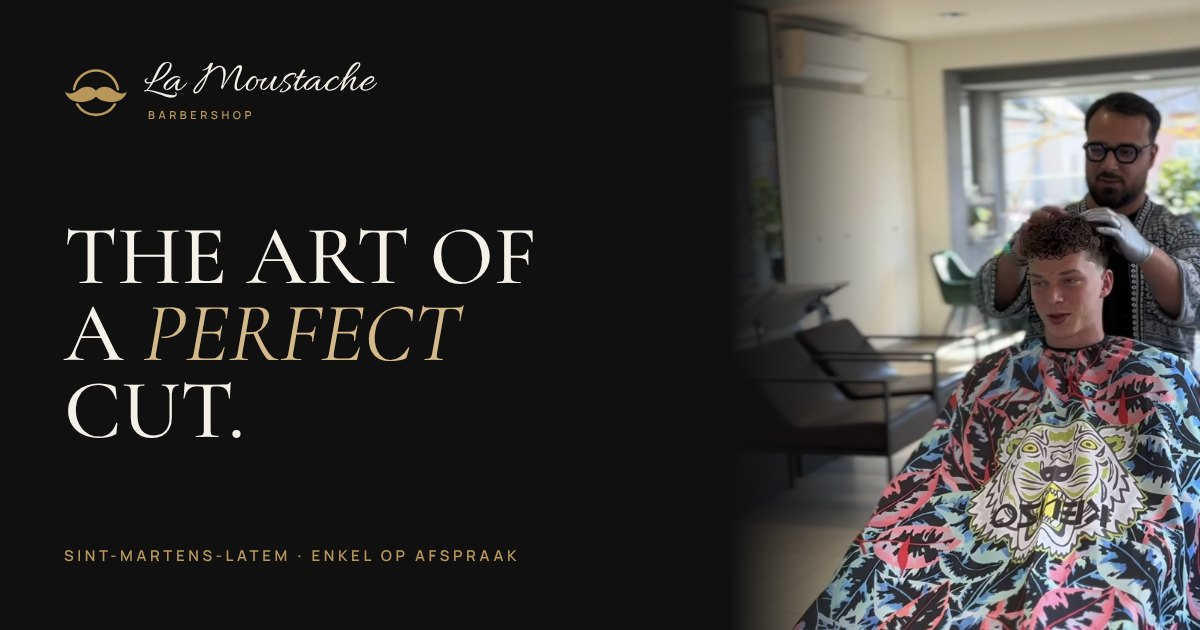
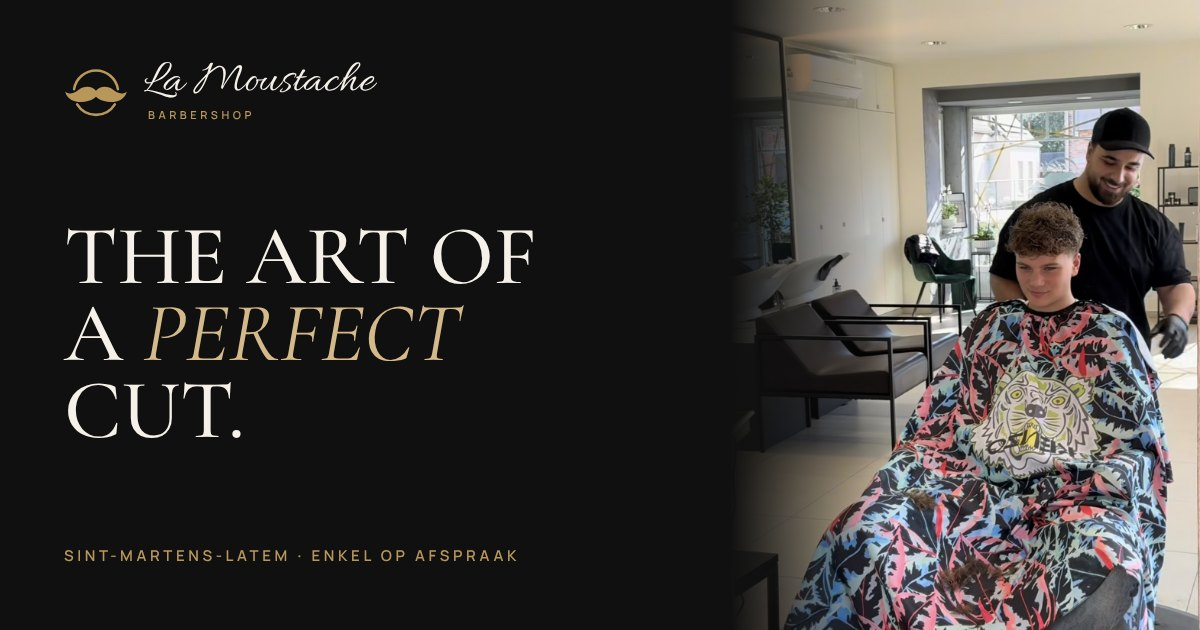
feat(la-moustache): new hero photo
- Hero and social share image now use the bright interior shot
- Experience section shows the neon wall photo
- Gallery gains a (mirror-corrected) shot of the barber styling a
  client; the old soft hero photo is removed
- README: photo consent confirmed by the client

Claude-Session: https://claude.ai/code/session_01PDqNCw2tHsDknUvRJEffo3

Changed region(s): [[0.6167, 0.0, 1.0, 1.0]]

diff --git a/projects/la-moustache/src/config/photos.ts b/projects/la-moustache/src/config/photos.ts
@@ -1,12 +1,12 @@
 import type { StaticImageData } from "next/image";
 
 import azizPortrait from "@/assets/photos/aziz-portrait.jpg";
-import azizStyling from "@/assets/photos/aziz-styling.jpg";
 import capCut from "@/assets/photos/cap-cut.jpg";
 import curlsResult from "@/assets/photos/curls-result.jpg";
 import interior from "@/assets/photos/interior.jpg";
 import neon from "@/assets/photos/neon.jpg";
 import spray from "@/assets/photos/spray.jpg";
+import stmntAziz from "@/assets/photos/stmnt-aziz.jpg";
 import stmntCape from "@/assets/photos/stmnt-cape.jpg";
 
 /**
@@ -21,11 +21,6 @@ export type Photo = {
 };
 
 export const photos = {
-  azizStyling: {
-    src: azizStyling,
-    alt: "Aziz Güler brengt de krullen van een klant in vorm in de lichte zaak van La Moustache",
-    caption: "Krullen in vorm brengen",
-  },
   azizPortrait: {
     src: azizPortrait,
     alt: "Aziz Güler lacht aan zijn bureau in La Moustache, met een gouden astronautbeeldje en een sfeerlamp",
@@ -33,13 +28,18 @@ export const photos = {
   },
   interior: {
     src: interior,
-    alt: "De lichte zaak van La Moustache met wasstoelen, een groene fauteuil en een groot raam, terwijl een barber een klant knipt",
+    alt: "De lichte zaak van La Moustache: een barber werkt aan de krullen van een klant, met wasstoelen en een groot raam op de achtergrond",
     caption: "De zaak in Sint-Martens-Latem",
   },
   neon: {
     src: neon,
     alt: "Barber en klant poseren voor de groene plantenmuur met het neonlogo van La Moustache",
     caption: "De neonmuur van La Moustache",
+  },
+  stmntAziz: {
+    src: stmntAziz,
+    alt: "Lachende barber met bril en handschoenen stylet het haar van een klant",
+    caption: "Styling met een glimlach",
   },
   stmntCape: {
     src: stmntCape,
@@ -64,4 +64,10 @@ export const photos = {
 } satisfies Record<string, Photo>;
 
 /** Volgorde in de galerij. */
-export const gallery: Photo[] = [photos.neon, photos.stmntCape, photos.spray, photos.curlsResult, photos.capCut];
+export const gallery: Photo[] = [
+  photos.stmntAziz,
+  photos.spray,
+  photos.curlsResult,
+  photos.stmntCape,
+  photos.capCut,
+];

diff --git a/projects/la-moustache/src/components/Hero.tsx b/projects/la-moustache/src/components/Hero.tsx
@@ -27,15 +27,15 @@ export function Hero() {
       {/* Beeld: volledig scherm op mobiel, redactioneel paneel rechts op desktop */}
       <div className="intro-settle absolute inset-0 -z-10 lg:left-auto lg:w-[46%]">
         <Image
-          src={photos.azizStyling.src}
-          alt={photos.azizStyling.alt}
+          src={photos.interior.src}
+          alt={photos.interior.alt}
           preload
           fetchPriority="high"
           fill
           placeholder="blur"
           quality={85}
           sizes="(min-width: 1024px) 46vw, 100vw"
-          className="object-cover object-[60%_30%]"
+          className="object-cover object-[68%_40%]"
         />
         {/* Leesbaarheid */}
         <div className="absolute inset-0 bg-gradient-to-t from-ink via-ink/75 to-ink/35 lg:hidden" />

diff --git a/projects/la-moustache/src/components/Experience.tsx b/projects/la-moustache/src/components/Experience.tsx
@@ -50,12 +50,12 @@ export function Experience() {
 
         <ImageReveal className="relative aspect-[5/4] w-full overflow-hidden lg:col-span-5 lg:col-start-1 lg:row-start-1 lg:aspect-[4/5]">
           <Image
-            src={photos.interior.src}
-            alt={photos.interior.alt}
+            src={photos.neon.src}
+            alt={photos.neon.alt}
             fill
             placeholder="blur"
             sizes="(min-width: 1024px) 40vw, 100vw"
-            className="object-cover object-[50%_25%]"
+            className="object-cover object-[35%_50%]"
           />
         </ImageReveal>
 

diff --git a/projects/la-moustache/README.md b/projects/la-moustache/README.md
@@ -117,15 +117,15 @@ Facebook live. Daarom staan er nog geen reviews, prijzen of beoordelingsaantalle
 ## Gebruikte afbeeldingen en toestemming
 
 Alle foto's komen van de eigen Instagram- en Facebookaccounts van La Moustache, aangeleverd als screenshots.
-Er zijn geen stockfoto's gebruikt en er is niets aan gezichten, kapsels of resultaten veranderd. Alleen
-bijgesneden, zodat de interface van Instagram en Facebook wegvalt.
+Er zijn geen stockfoto's gebruikt en er is niets aan gezichten, kapsels of resultaten veranderd. De foto's zijn
+alleen bijgesneden, zodat de interface van Instagram en Facebook wegvalt. Twee spiegelopnames zijn teruggespiegeld.
 
 | Bestand | Inhoud | Herkenbare klant? |
 | --- | --- | --- |
-| `aziz-styling.jpg` | Aziz brengt krullen in vorm (hero, OG-beeld) | Ja |
 | `aziz-portrait.jpg` | Aziz aan zijn bureau, post van 3 april 2025 (Over ons) | Nee |
-| `interior.jpg` | De zaak met wasstoelen en raam, een barber aan het werk (De ervaring) | Ja |
-| `neon.jpg` | Barber en klant voor de neonmuur, post van 27 februari 2025 (galerij) | Ja |
+| `interior.jpg` | De zaak met wasstoelen en raam, een barber aan het werk (hero, OG-beeld) | Ja |
+| `neon.jpg` | Barber en klant voor de neonmuur, post van 27 februari 2025 (De ervaring) | Ja |
+| `stmnt-aziz.jpg` | Lachende barber stylet een klant (galerij). Gespiegeld, net als `stmnt-cape.jpg` | Ja |
 | `stmnt-cape.jpg` | Klant onder de STMNT-kapmantel (galerij). Horizontaal gespiegeld: het origineel is via een spiegel gefilmd, zodat het STMNT-logo nu leesbaar is | Ja |
 | `spray.jpg` | Haar bevochtigen voor het knippen (galerij) | Deels (zijaanzicht) |
 | `curls-result.jpg` | Portret van het resultaat: krullen met fade (galerij) | Ja |
@@ -140,6 +140,5 @@ Zwakkere uitsneden (een klant die volledig in beeld zit, wazige interieurbeelden
 zijn bewust weggelaten. Nieuwe foto's toevoegen gaat via `src/config/photos.ts`: de galerij groeit dan
 automatisch mee.
 
-⚠ **Toestemming nodig:** Aziz moet bevestigen dat de herkenbare klanten op deze foto's akkoord gaan met
-publicatie op de website. Op sociale media posten is iets anders dan gebruik op een commerciële website (AVG,
-portretrecht). De foto van een kind uit het Instagram-raster is bewust **niet** gebruikt.
+✅ **Toestemming:** de klant bevestigde dat het gebruik van alle foto's op de website juridisch in orde is.
+De foto van een kind uit het Instagram-raster is niet gebruikt.
